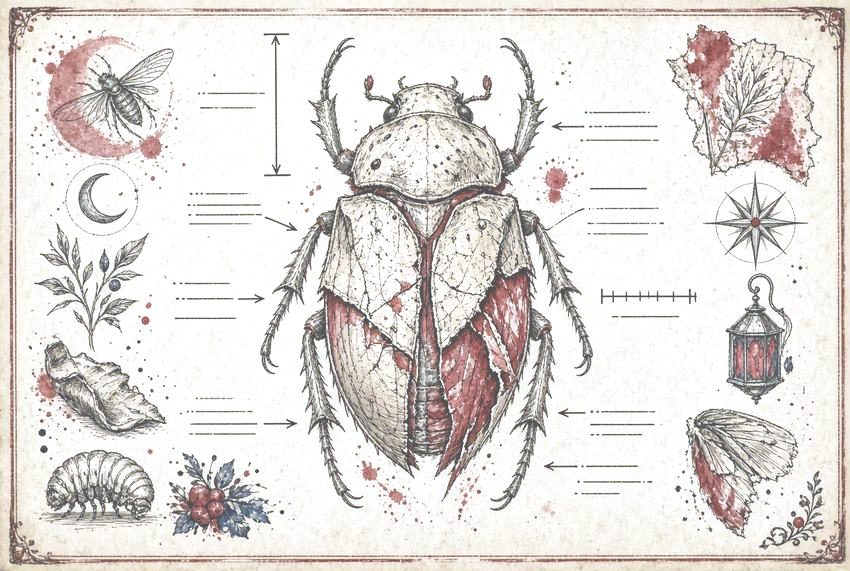
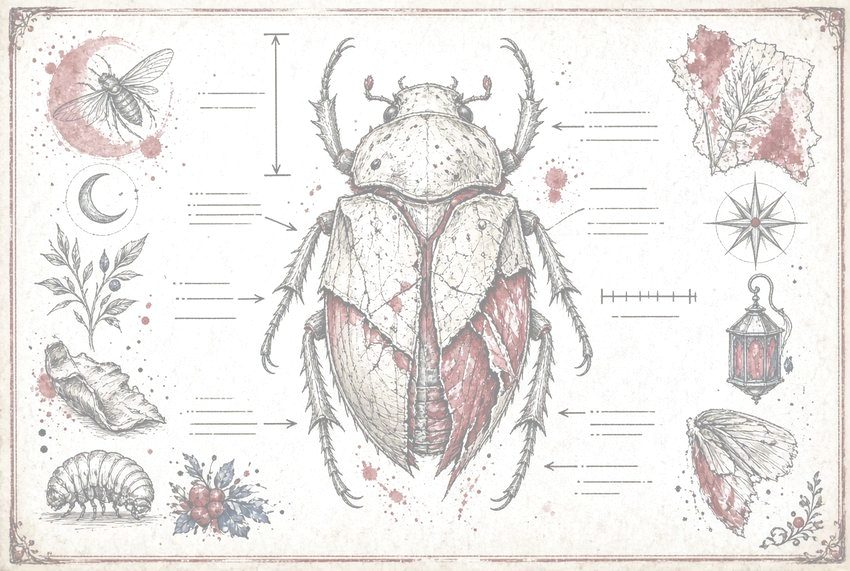
Parte 4: presentazione dei boss (ripresa, storia in tre frasi, nome); Caricatore più leggibile; ombre a terra sotto i modelli; test intro.mjs
Claude-Session: https://claude.ai/code/session_01Sfg9Gc5dHjiys1KxfGo7HN

diff --git a/src/main.js b/src/main.js
@@ -806,11 +806,11 @@ function enterRoom(r) {
   $('inkWrap').classList.toggle('safe', zoneSafe());
   if (r.id === 'intro') grammar.snapshot('intro', ['board'], () => ({}));
   if (r.id === 'charger' && !S.discovered.has('temperament.cautious') && charger.alive) { S.discovered.add('temperament.cautious'); S.encounter = 'charger'; ink.encounterEnd(); Tele.log('encounter_start', { id: 'charger' }); sfx.tension(true);
-    say([['narr', 'Il Caricatore è VIGILE. Sempre vigile. Ma anche la vigilanza è solo una parola.'], ['narr', 'Sotto, scritta a matita: CAUTO.']]); hint(ST.HINTS.charger); journal('Hai trovato la parola CAUTO.'); }
+    bossIntro('charger', () => ({ x: charger.x, z: charger.z, rot: charger.mesh.rotation.y, h: 1.6 }), () => say([['narr', 'Il Caricatore è VIGILE. Sempre vigile. Ma anche la vigilanza è solo una parola.'], ['narr', 'Sotto, scritta a matita: CAUTO.']])); hint(ST.HINTS.charger); journal('Hai trovato la parola CAUTO.'); }
   if (r.id === 'conduct' && !S.discovered.has('element.conductive')) { S.discovered.add('element.conductive'); grammar.snapshot('conduct', ['plate'], () => ({}));
     say([['narr', 'La piastra di rame dice ISOLANTE. Qualcuno ha cancellato male: si legge ancora CONDUTTIVO.']]); hint(ST.HINTS.press); journal('Hai trovato la parola CONDUTTIVO.'); }
   if (r.id === 'door' && prev !== 'door' && !S.doorRoute) { cinePlate('tribunale', 'IV · La porta che giudica'); grammar.snapshot('door', ['relay', 'evplate'], () => ({ hasDoc: door.hasDoc, docPlaced: door.docPlaced })); say(ST.elaraDoor(mem).slice(0, 2)); hint(ST.HINTS.door); }
-  if (r.id === 'arena' && S.encounter !== 'arena' && !S.victory) { S.encounter = 'arena'; ink.encounterEnd(); sfx.tension(true); if (!S.arenaIntro) { S.arenaIntro = true; S.lock = true; cinePlate('custode', 'V · Il Custode della Fenditura', () => { custode.rise = 2.6; S.camFocus = { x: custode.x, z: custode.z, t: 3 }; sfx.sting('phase'); sfx.play('tear'); setTimeout(() => { S.lock = false; say(ST.custodeLines(S.arenaDeaths, mem)); }, FAST ? 100 : 2700); }); } else say(ST.custodeLines(S.arenaDeaths, mem)); hint(ST.HINTS.arena); Tele.log('encounter_start', { id: 'arena' }); }
+  if (r.id === 'arena' && S.encounter !== 'arena' && !S.victory) { S.encounter = 'arena'; ink.encounterEnd(); sfx.tension(true); if (!S.arenaIntro) { S.arenaIntro = true; S.lock = true; cinePlate('custode', 'V · Il Custode della Fenditura', () => { custode.rise = 2.6; S.camFocus = { x: custode.x, z: custode.z, t: 3 }; sfx.sting('phase'); sfx.play('tear'); setTimeout(() => bossIntro('custode', () => ({ x: custode.x, z: custode.z, rot: custode.mesh.rotation.y, h: 3.3 }), () => { S.lock = false; say(ST.custodeLines(S.arenaDeaths, mem)); }), FAST ? 100 : 2700); }); } else say(ST.custodeLines(S.arenaDeaths, mem)); hint(ST.HINTS.arena); Tele.log('encounter_start', { id: 'arena' }); }
 }
 function endEncounter(id) { if (S.encounter && !opts.reduce) { slowmo(0.45); S.flash = Math.max(S.flash, 0.15); } S.encounter = null; ink.encounterEnd(); sfx.tension(false); Tele.log('encounter_end', { id }); popInk('Inchiostro pieno'); }
 function die() {
@@ -1748,7 +1748,7 @@ function spawnCopista() { const [x, z] = mzCell(MZ.EX, 2); const o = spawnMite(x
   const q = W.makeDoc(); q.scale.setScalar(0.6); q.position.set(0, 0.3, -0.2); o.mesh.add(q); for (const sd of [-1, 1]) { const h = inked(new THREE.ConeGeometry(0.06, 0.4, 5), { color: 0xe8dcc0, outline: false }); h.position.set(sd * 0.15, 0.35, 0.1); h.rotation.z = sd * -0.5; o.mesh.add(h); hideIfPaper(o, h); } hideIfPaper(o, q);
   MZ.boss = o; const bar = document.createElement('div'); bar.id = 'miniBar'; bar.innerHTML = '<div class="bname">IL COPISTA</div><div class="hbar"><i></i></div>'; bar.style.display = 'none'; document.body.appendChild(bar); }
 function copistaAct(m, dt) {
-  if (!m.engaged) { m.engaged = true; m.st = 'walk'; m.atkT = 2.6; say([['narr', 'Il Copista alza la testa dal suo registro. Ricopia tutto: anche te.']]); sfx.tension(true); bossBeat('IL COPISTA', 'ricopia tutto, anche te', m); }
+  if (!m.engaged) { m.engaged = true; m.st = 'walk'; m.atkT = 2.6; bossIntro('copista', () => ({ x: m.x, z: m.z, rot: m.mesh.rotation.y, h: 2.5 }), () => say([['narr', 'Il Copista alza la testa dal suo registro. Ricopia tutto: anche te.']])); sfx.tension(true); }
   m.summonT -= dt; m.writeT -= dt; if (m.hitT > 0) m.hitT -= dt; const p2 = m.hp < m.maxHp / 2;
   if (p2 && !m.p2) { m.p2 = true; m.st = 'walk'; m.atkT = 1.2; bossBeat('IL COPISTA · FASE 2', 'il registro si apre: due righe alla volta', m); m.mesh.scale.setScalar(3.4); }
   if (m.summonT <= 0) { m.summonT = p2 ? 7 : 9; for (let i = 0; i < (p2 ? 2 : 1); i++) { const a = Math.random() * 6.28; const c = spawnMite(m.x + Math.sin(a) * 2, m.z + Math.cos(a) * 2, false); c.room = 'maze'; c.aggroR = 30; c.home = { x: c.x, z: c.z }; } particles.burst(m.x, 1, m.z, 20, 4); sfx.play('voice', 0.2); toastSmall('Il Copista ricopia le sue macchie'); }
@@ -1779,6 +1779,32 @@ function inkPool(x, z, r, life) { const m = new THREE.Mesh(new THREE.CircleGeome
 function poolsUpdate(dt) { P.slow = 1; for (let i = pools.length - 1; i >= 0; i--) { const q = pools[i]; q.life -= dt; q.m.material.opacity = Math.min(0.8, q.life); if (Math.hypot(P.x - q.x, P.z - q.z) < q.r && P.st !== 'dodge') P.slow = 0.55; if (q.life <= 0) { scene.remove(q.m); q.m.geometry.dispose(); q.m.material.dispose(); pools.splice(i, 1); } } }
 // momento del boss: rallentatore, camera sul boss, scritta grande, accordo
 function comboBeat(title, sub) { if (!opts.reduce) slowmo(0.5); S.flash = Math.max(S.flash, 0.2); const el = $('bossCard'); el.innerHTML = title + '<small>' + sub + '</small>'; el.classList.remove('on'); el.classList.add('combo'); void el.offsetWidth; el.classList.add('on'); setTimeout(() => el.classList.remove('combo'), 2300); Tele.log('combo_discovered', { title }); }
+// ================= v2.4 · Presentazione dei boss: chi è e cosa l'ha reso così =================
+// Prima volta: ripresa larga dal basso che gli gira davanti, poi primo piano che avanza sul volto, tre frasi brevi, il nome.
+// Dopo (se muori e torni): solo il nome. Un tocco salta. Con ?fast e «riduci movimento» resta solo il nome.
+const LORE = {
+  charger: { name: 'IL CARICATORE', sub: 'porta il verdetto, e non si ferma', lines: ['Era il carro della tipografia: portava le pagine fresche al tribunale.', 'Ilde gli ordinò di non fermarsi mai, perché nessuno leggesse il verdetto per strada.', 'Nessuno gli ha mai detto basta. Ora carica tutto ciò che si muove.'] },
+  copista: { name: 'IL COPISTA', sub: 'ricopia tutto, anche te', lines: ['Un tempo ricopiava le storie, una riga perfetta dopo l\'altra.', 'Quando il libro si chiuse, nessuno gli disse di posare la penna.', 'Ora ricopia chi entra nel labirinto. E chi viene ricopiato, resta.'] },
+  ladro: { name: 'IL LADRO D\'INCHIOSTRO', sub: 'beve l\'inchiostro vivo e lo usa contro di te', lines: ['Qui sotto Ilde versava le versioni scartate della storia.', 'Lui le ha bevute tutte. Più beveva, più dimenticava chi era.', 'La maschera che porta l\'ha rubata al giurato. Una faccia sua non ce l\'ha più.'] },
+  custode: { name: 'IL CUSTODE DELLA FENDITURA', sub: 'non lascia cambiare la storia', lines: ['Ilde lo scrisse per ultimo: un guardiano di libri, perché la Fenditura restasse chiusa.', 'Gli diede un solo ordine: che nessuno cambi più la storia.', 'Non sa che anche lei, alla fine, voleva cambiarla.'] },
+  compositore: { name: 'IL COMPOSITORE', sub: 'l\'automa che corregge tutto', lines: ['Il Tipografo lo costruì per comporre le pagine, lettera per lettera.', 'Quando il Tipografo smise di venire, nessuno gli disse cosa comporre.', 'Così ha cominciato a correggere tutto. Anche chi passa.'] },
+};
+const INTRO_SEEN = new Set();
+const loreEl = (() => { const d = document.createElement('div'); d.id = 'bossLore'; document.body.appendChild(d); return d; })();
+function bossIntro(k, get, done) {
+  const L = LORE[k]; const card = () => bossBeat(L.name, L.sub, get());
+  if ((FAST && !SCR.force) || opts.reduce || INTRO_SEEN.has(k)) { INTRO_SEEN.add(k); card(); if (done) done(); return; } INTRO_SEEN.add(k);
+  const wasLock = S.lock; S.lock = true; P.inv = Math.max(P.inv, 99); sfx.sting('phase'); sfx.tension(true); Tele.log('boss_intro', { k });
+  const per = 2.4, T = 1.2 + L.lines.length * per + 0.4; let li = -1, skipped = false; const t0 = performance.now();
+  const onSkip = (ev) => { if (performance.now() - t0 > 600) { skipped = true; ev.stopPropagation(); } }; addEventListener('pointerdown', onSkip, true); addEventListener('keydown', onSkip, true);
+  regia({ id: 'intro-' + k, always: true, dur: T, blendIn: 0.9, blendOut: 0.8, until: () => skipped, cam: (t) => {
+    const b = get(), H = b.h, fx = Math.sin(b.rot), fz = Math.cos(b.rot);
+    const idx = Math.min(L.lines.length - 1, Math.floor((t - 0.6) / per)); if (t > 0.6 && idx !== li) { li = idx; loreEl.textContent = L.lines[idx]; }
+    { const u = t - 0.6 - Math.max(0, idx) * per; loreEl.style.opacity = t < 0.6 ? 0 : Math.min(1, u / 0.35, (per - u) / 0.4); } /* la frase segue il tempo della ripresa */
+    if (t < 1.4 + per * 1.1) { const a = 0.75 - t * 0.09, r = Math.max(4.5, H * 2.6); return { pos: _rv.set(b.x + Math.sin(b.rot + a) * r, Math.max(0.6, H * 0.3), b.z + Math.cos(b.rot + a) * r), look: _rl.set(b.x, H * 0.62, b.z), fov: 32 }; } // largo, dal basso
+    const k2 = clamp((t - 1.4 - per * 1.1) / (T - 1.4 - per * 1.1), 0, 1), dd = lerp(Math.max(3, H * 1.9), Math.max(2.2, H * 1.15), k2 * k2); // primo piano che avanza
+    return { pos: _rv.set(b.x + fx * dd + fz * 0.6, H * 0.82, b.z + fz * dd - fx * 0.6), look: _rl.set(b.x, H * 0.76, b.z), fov: 28 }; },
+    done: () => { removeEventListener('pointerdown', onSkip, true); removeEventListener('keydown', onSkip, true); loreEl.style.opacity = 0; P.inv = 0; card(); setTimeout(() => { S.lock = wasLock; if (done) done(); }, 1500); } }); } /* il nome si vede da solo, poi si parla */
 function bossBeat(title, sub, at) { if (!opts.reduce) slowmo(0.6); S.shake = Math.max(S.shake, 0.7); sfx.sting('phase'); S.camFocus = { x: at.x, z: at.z, t: 1.4 };
   const el = $('bossCard'); el.innerHTML = title + (sub ? '<small>' + sub + '</small>' : ''); el.classList.remove('on'); void el.offsetWidth; el.classList.add('on'); Tele.log('boss_beat', { title }); }
 function copistaUpdate() { const m = MZ.boss; const bar = $('miniBar'); if (!m || !bar) return; const show = m.alive && m.engaged && S.room === 'maze'; bar.style.display = show ? 'block' : 'none'; if (show) bar.querySelector('i').style.width = (Math.max(0, m.hp) / m.maxHp * 100) + '%';
@@ -1837,13 +1863,13 @@ LD.ent = addEnt('ladro', 'ladro', (() => { const g = new THREE.Group(); const bo
 const ldTether = new THREE.Mesh(new THREE.CylinderGeometry(0.05, 0.05, 1, 6), new THREE.MeshBasicMaterial({ color: 0x0b0806 })); ldTether.visible = false; scene.add(ldTether);
 const ldBar = (() => { const b = document.createElement('div'); b.id = 'ladroBar'; b.innerHTML = '<div class="bname">IL LADRO D\'INCHIOSTRO</div><div class="hbar"><i></i></div><div class="sack"><i></i></div>'; b.style.display = 'none'; document.body.appendChild(b); return b; })();
 function ladroAwake() { if (LD.awake) return; LD.awake = true; LD.alive = true; LD.ent.alive = true; LD.ent.mesh.visible = true; LD.st = 'rise'; LD.t = 2.2; LD.ent.mesh.position.set(LD.x, -2.4, LD.z); S.lock = true; sfx.play('splat'); sfx.play('tear');
-  setTimeout(() => { say([['ladro', 'Shhh. Non svegliare l\'archivio. Sto bevendo.', 'archivio'], ['ladro', 'Tutto l\'inchiostro che Ilde ha versato qui sotto… e adesso anche il tuo. Quello vivo ha un sapore migliore.']], { done: () => { S.lock = false; bossBeat('IL LADRO D\'INCHIOSTRO', 'beve l\'inchiostro vivo e lo usa contro di te', LD); hint('Schiva per strappare il filo · colpisci la sacca quando è gonfia · CONDUTTIVO mentre beve…'); } }); }, FAST ? 100 : 1600); }
+  setTimeout(() => { say([['ladro', 'Shhh. Non svegliare l\'archivio. Sto bevendo.', 'archivio'], ['ladro', 'Tutto l\'inchiostro che Ilde ha versato qui sotto… e adesso anche il tuo. Quello vivo ha un sapore migliore.']], { done: () => { S.lock = false; } }); }, FAST ? 100 : 1600); } /* v2.4: la presentazione parte quando è uscito dalle pozze (vedi «rise») */
 function ladroUpdate(dt) { if (!LD.alive) { ldTether.visible = false; ldBar.style.display = 'none'; return; } const e = LD, m = e.ent.mesh, u = m.userData;
   ldBar.style.display = S.room === 'archive' && e.st !== 'rise' ? 'block' : 'none'; ldBar.querySelector('.hbar i').style.width = (e.hp / e.max * 100) + '%'; ldBar.querySelector('.sack i').style.width = e.sack + '%';
   if (S.room !== 'archive' || S.lock) { ldTether.visible = e.st === 'siphon'; return; }
   const dx = P.x - e.x, dz = P.z - e.z, d = Math.hypot(dx, dz) || 1, caut = grammar.has('ladro', 'temperament.cautious'), cond = grammar.has('ladro', 'element.conductive'), p2 = e.hp < e.max / 2; e.t -= dt;
   if (p2 && !e.p2) { e.p2 = true; bossBeat('IL LADRO · FASE 2', 'beve più in fretta; le pozze si svegliano', e); for (const [x, z] of [[30, -19], [50, -25]]) spawnMite(x, z); }
-  if (e.st === 'rise') { m.position.y = lerp(-2.4, 0, 1 - Math.max(0, e.t) / 2.2); if (frame % 2 === 0) particles.emit(e.x + rnd(-1, 1), 0.2, e.z + rnd(-1, 1), 0, rnd(1, 3), 0, 0.8, 0.2, 0.04, 0.05, 0.08, 6); if (e.t <= 0) { e.st = 'stalk'; e.t = 2; } }
+  if (e.st === 'rise') { m.position.y = lerp(-2.4, 0, 1 - Math.max(0, e.t) / 2.2); if (frame % 2 === 0) particles.emit(e.x + rnd(-1, 1), 0.2, e.z + rnd(-1, 1), 0, rnd(1, 3), 0, 0.8, 0.2, 0.04, 0.05, 0.08, 6); if (e.t <= 0) { e.st = 'stalk'; e.t = 2; if (!LD.introDone) { LD.introDone = true; bossIntro('ladro', () => ({ x: LD.x, z: LD.z, rot: m.rotation.y, h: 2.2 }), () => hint('Schiva per strappare il filo · colpisci la sacca quando è gonfia · CONDUTTIVO mentre beve…')); } } }
   else if (e.st === 'stalk') { const want = caut ? 7 : 4.5, k = d > want + 0.5 ? 1 : d < want - 0.5 ? -1 : 0; e.x += (dx / d * k + (-dz / d) * 0.6) * (p2 ? 2.6 : 1.9) * dt; e.z += (dz / d * k + (dx / d) * 0.6) * (p2 ? 2.6 : 1.9) * dt;
     if (e.t <= 0) { if (e.sack >= (caut ? 999 : 45)) { e.st = 'cast'; e.t = 1.0; sfx.play('warn'); ring(P.x, P.z, 1.3, 1.0, 0x3fc1ff); } else { e.st = 'siphonWU'; e.t = p2 ? 0.55 : 0.8; e.lane = laneWarn(e.x, e.z, dx / d, dz / d, Math.min(d, 9), 0.4, e.t); sfx.play('warn'); } } }
   else if (e.st === 'siphonWU') { if (e.t <= 0) { if (d < 9.5) { e.st = 'siphon'; e.t = 3.6; e.sid = 'ld' + (++attackCounter); sfx.play('breath'); } else { e.st = 'stalk'; e.t = 1; } } }
@@ -1999,7 +2025,7 @@ function remat(e) { if (!e) return; e.mats = matsOf(e.mesh); e.fxMats = null; if
 if (USE3D) {
   whenModel('correttore', () => { const u = P.mesh.userData; hideKids(u.body, [u.quillPivot]); u.quill.visible = false; /* la penna è quella del modello; la punta invisibile resta per luce e scia dei colpi */ const m = makeModel('correttore', 1.9, { ground: false, ow: 0.016 }); u.body.add(m); u.model = m; P.mats = null; M3.player = m; });
   whenModel('caricatore', () => { const u = charger.mesh.userData; hideKids(u.body, [u.core, u.armor]); for (const c of u.armor.children) c.visible = false;
-    const m = makeModel('caricatore', 1.15, { ow: 0.014 }); u.body.add(m); u.core.position.set(0, 1.0, -0.35); u.core.scale.setScalar(0.45); charger.model = m; remat(charger); M3.charger = m; });
+    const m = makeModel('caricatore', 1.15, { ow: 0.03 }); /* contorno più spesso: si stacca dal pavimento */ u.body.add(m); u.core.position.set(0, 1.0, -0.35); u.core.scale.setScalar(0.45); charger.model = m; remat(charger); M3.charger = m; });
   whenModel('custode', () => { const u = custode.mesh.userData; hideKids(u.body, [u.core, u.armor]); for (const c of u.armor.children) c.visible = false;
     const m = makeModel('custode', 3.3, { ow: 0.022 }); u.body.add(m); u.core.position.set(0, 2.0, 0.62); u.core.scale.setScalar(0.7); custode.model = m; remat(custode); M3.custode = m; });
   whenModel('rilegatore', () => { const u = LD.ent.mesh.userData; hideKids(u.body); const m = makeModel('rilegatore', 2.2, { ow: 0.016 }); u.body.add(m); LD.ent.model = m; remat(LD.ent); M3.ladro = m; });

diff --git a/src/modelli.js b/src/modelli.js
@@ -72,13 +72,15 @@ const WAIT = {}; // chi aspetta un modello: quando arriva, il personaggio si «r
 export function whenModel(n, f) { if (M[n]) f(); else (WAIT[n] = WAIT[n] || []).push(f); }
 
 // Mesh a inchiostro con il colore del modello: stessi effetti del gioco (lampo del colpo, dissolvenza, crepe, bagliore, luci) + movimento
-export const LIVE = []; // modelli vivi da animare ogni fotogramma
+export const LIVE = [];
+const SHADOW_GEO = new THREE.CircleGeometry(1, 20).rotateX(-Math.PI / 2), SHADOW_MAT = new THREE.MeshBasicMaterial({ color: 0x0b0806, transparent: true, opacity: 0.38, depthWrite: false }); // modelli vivi da animare ogni fotogramma
 export function makeModel(n, height, o = {}) {
   const d = M[n]; if (!d) return null; const rig = { ...RIG[n], ...o }; const U = animUniforms({ ...rig, hw: d.hw });
   const mat = inkMaster({ color: 0xffffff, map: d.map, y0: 0, y1: height, texBlend: o.texBlend ?? 0.12, anim: U });
   const m = new THREE.Mesh(d.geo, mat); m.scale.setScalar(height); m.userData.model3d = n;
   if (o.outline !== false) { const ol = new THREE.Mesh(d.geo, outlineMat((o.ow ?? 0.012) / height, U)); ol.renderOrder = -1; m.add(ol); m.userData.outline = ol; }
-  m.userData.anim = { U, rig, height, ground: o.ground !== false, last: null, vel: new THREE.Vector2(), drag: new THREE.Vector2(), hopT: Math.random() * 3, spd: 0, base: 0, hit: 0 };
+  let shadow = null; if (o.shadow !== false) { shadow = new THREE.Mesh(SHADOW_GEO, SHADOW_MAT); shadow.scale.setScalar(d.hw * 1.35); shadow.position.y = 0.004 / height; shadow.renderOrder = -2; m.add(shadow); } // ombra a terra: il personaggio «poggia»
+  m.userData.anim = { U, rig, height, shadow, ground: o.ground !== false, last: null, vel: new THREE.Vector2(), drag: new THREE.Vector2(), hopT: Math.random() * 3, spd: 0, base: 0, hit: 0 };
   LIVE.push(m); return m;
 }
 
@@ -108,6 +110,7 @@ export function animateModels(dt) {
     // mai fluttuare: la base del modello sta sul pavimento (anche se il gruppo del personaggio è sollevato), più l'eventuale salto
     if (a.ground) { const gy = _w.y - m.position.y * _s.y; const want = gy > 0 ? -gy / _s.y : 0; m.position.y = want + lift / _s.y; }
     else m.position.y = lift / _s.y;
+    if (a.shadow) { a.shadow.position.y = (0.004 - lift) / (a.height * _s.y); const k = 1 - Math.min(0.5, lift / Math.max(0.3, H)); a.shadow.scale.setScalar(m.geometry.boundingSphere ? a.U.uHW.value * 1.35 * k : 1); } // l'ombra resta a terra anche quando salta
   }
 }
 export function hitModel(m) { if (m && m.userData.anim) m.userData.anim.hit = 1; }

diff --git a/style.css b/style.css
@@ -266,3 +266,6 @@ body.regia #hud,body.regia #words{opacity:0!important;pointer-events:none!import
 
 /* v2.4 · la scrittura */
 #scrivi{position:fixed;inset:0;width:100vw;height:100vh;z-index:15;display:none;opacity:1;transition:opacity .35s}#scrivi.out{opacity:0;pointer-events:none}
+
+/* v2.4 · presentazione dei boss: la frase di storia tra le bande nere */
+#bossLore{position:fixed;left:8vw;right:8vw;bottom:3.2vh;z-index:14;text-align:center;color:#f3ead6;font:italic clamp(17px,2.4vw,26px) Georgia,serif;text-shadow:0 2px 8px #000;opacity:0;pointer-events:none}

diff --git a/tools/make-assets.py b/tools/make-assets.py
@@ -80,7 +80,7 @@ def main():
     for k, (n, rot) in PAVIMENTI.items():
         im = load(n); im = im.rotate(rot, expand=True) if rot else im
         if k == 'maze': w, h = im.size; im = im.crop(((w - h) // 2, 0, (w - h) // 2 + h, h)).resize((512, 512), Image.LANCZOS)  # si ripete sul pavimento del labirinto
-        save_jpg(multiply_layer(im, {'maze': 0.6, 'charger': 0.7, 'arena': 0.7, 'archive': 0.72, 'crypt': 0.72}.get(k, 0.85))  # più leggere dove si combatte, per leggere i nemici
+        save_jpg(multiply_layer(im, {'maze': 0.6, 'charger': 0.45, 'arena': 0.7, 'archive': 0.72, 'crypt': 0.72}.get(k, 0.85))  # più leggere dove si combatte, per leggere i nemici
                  , f'{OUT}/pavimenti/{k}.jpg', 82)
     for k, n in SCENE.items(): save_jpg(load(n), f'{OUT}/scene/{k}.jpg', 82)
     for k, (n, box) in ICONE.items(): ic = crop(load(n), box); ic.thumbnail((160, 160), Image.LANCZOS); bg = Image.new('RGB', (160, 160), (236, 226, 204)); bg.paste(ic, ((160 - ic.width) // 2, (160 - ic.height) // 2)); save_jpg(bg, f'{OUT}/icone/{k}.jpg', 86)

diff --git a/CHECKLIST.md b/CHECKLIST.md
@@ -76,7 +76,7 @@ I modelli erano sul ramo `grok/personaggi-3d` (costruito sulla vecchia v1.9: NON
 Regole: dopo OGNI parte mandargli schermate prima/dopo e ASPETTARE il suo ok prima della parte successiva. Non unire a main, non pubblicare.
 - [x] P2 · Regia (`regia()`, `regiaApply`, `trackSide`, `twoShot`, `orbitLow` in main.js; bande nere `#regiaBars`): PONTE dell'apertura e del labirinto ripresi di lato sulle assi scritte (`plankWords`); LIBERA in inquadratura a due. Strumenti: `tools/ponte-shots.mjs`, `tools/libera-shot.mjs`
 - [x] P3 · Riscrittura «alla Light Yagami»: `scrittura()` in main.js (canvas 2D `#scrivi`: occhi dorati dal ritratto «you», pagina, nome del bersaglio, parola scritta lettera per lettera dal pennino con suono 'scratch' (audio.js), parola che si accende del suo colore, lampo, stacco `regia('stacco')` dal basso). `confirmWord` → `canWrite` → scena → `applyWord` alla fine. Lunga la prima volta per parola e su boss/ponti, breve (0,85 s) dopo, un tocco la salta, opzione «Scena di scrittura» (auto/lunga/spenta). Saltata con ?fast (PAL.SCR.force per provarla). Test `tests/scrittura.mjs`; strumento `tools/scrittura-shots.mjs`. Nota: `tests/tutorial.mjs` fallisce già da prima (cerca un pulsante che non c'è più)
-- [ ] P4 · Presentazione di boss e mini-boss (Caricatore, Copista, Ladro, Custode, Compositore): entrata con la regia + 2-3 frasi su chi è e cosa l'ha reso così
+- [x] P4 · Presentazione dei boss: `bossIntro(k, get, done)` + `LORE` in main.js (ripresa larga dal basso → primo piano, 3 frasi in `#bossLore` guidate dal tempo della ripresa, nome con `bossBeat`, 1,5 s di pausa prima del dialogo). Caricatore (entrata stanza), Copista (si accorge di te), Ladro (appena uscito dalle pozze), Custode (dopo la salita). LORE del Compositore pronta per P6. Prima volta sola, un tocco salta, ?fast = solo nome. Caricatore più leggibile: contorno 0.03, pavimento 'charger' 0.45, ombra a terra sotto tutti i modelli (modelli.js). Test `tests/intro.mjs`; strumento `tools/intro-shots.mjs`
 - [ ] P6 · Stanza CONDUTTIVO: botola del meccanismo che si apre e fa cadere nel labirinto (si vede), circuito più difficile in 2-3 passi, il robot = «Il Compositore» (mini-boss, cattivo triste, automa del Tipografo)
 - Idee già decise per dopo: Ilde = ricordo d'inchiostro nelle scene della lettera e nell'archivio; Elara bambina = flashback giocabile della notte del fiume prima del finale
 - Restano dalla lista di Joseph (non scelti ora): colpi che si sentono, nemici più vari, storia più chiara, più enigmi
